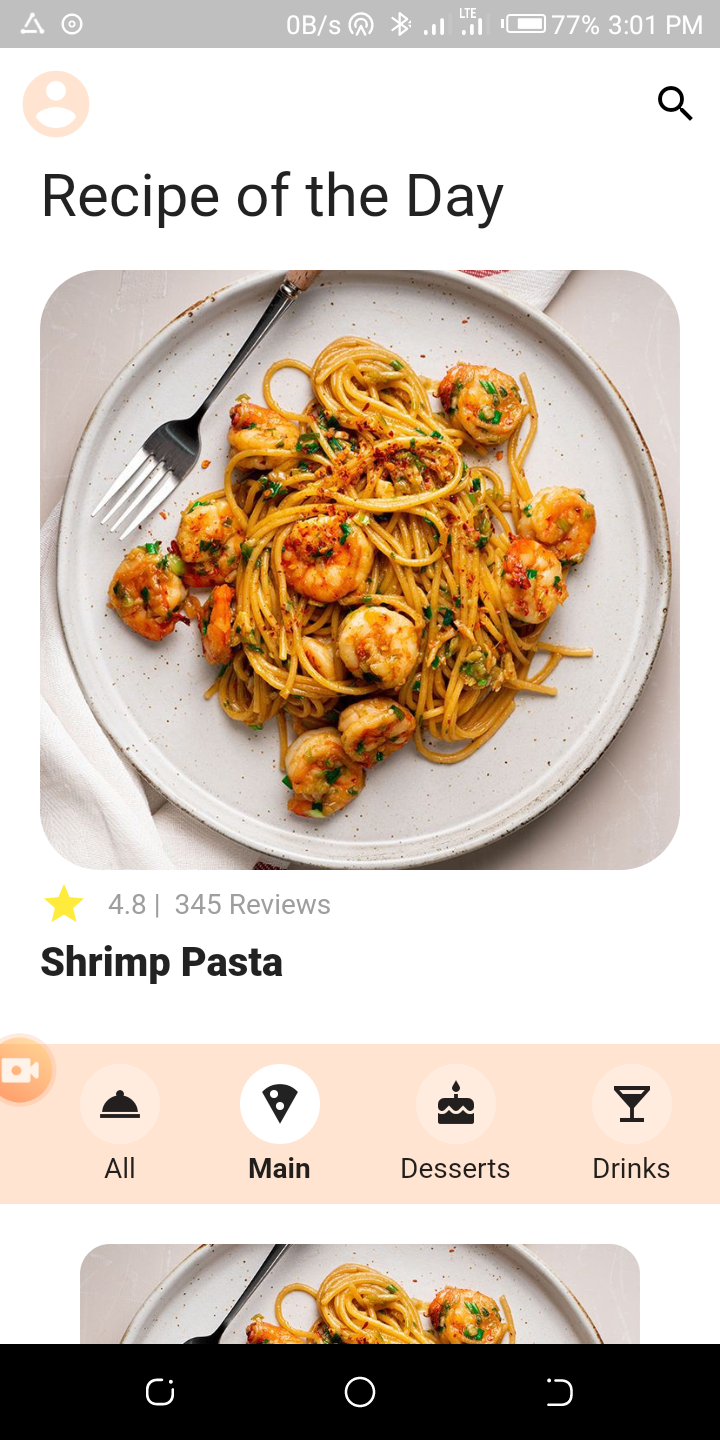
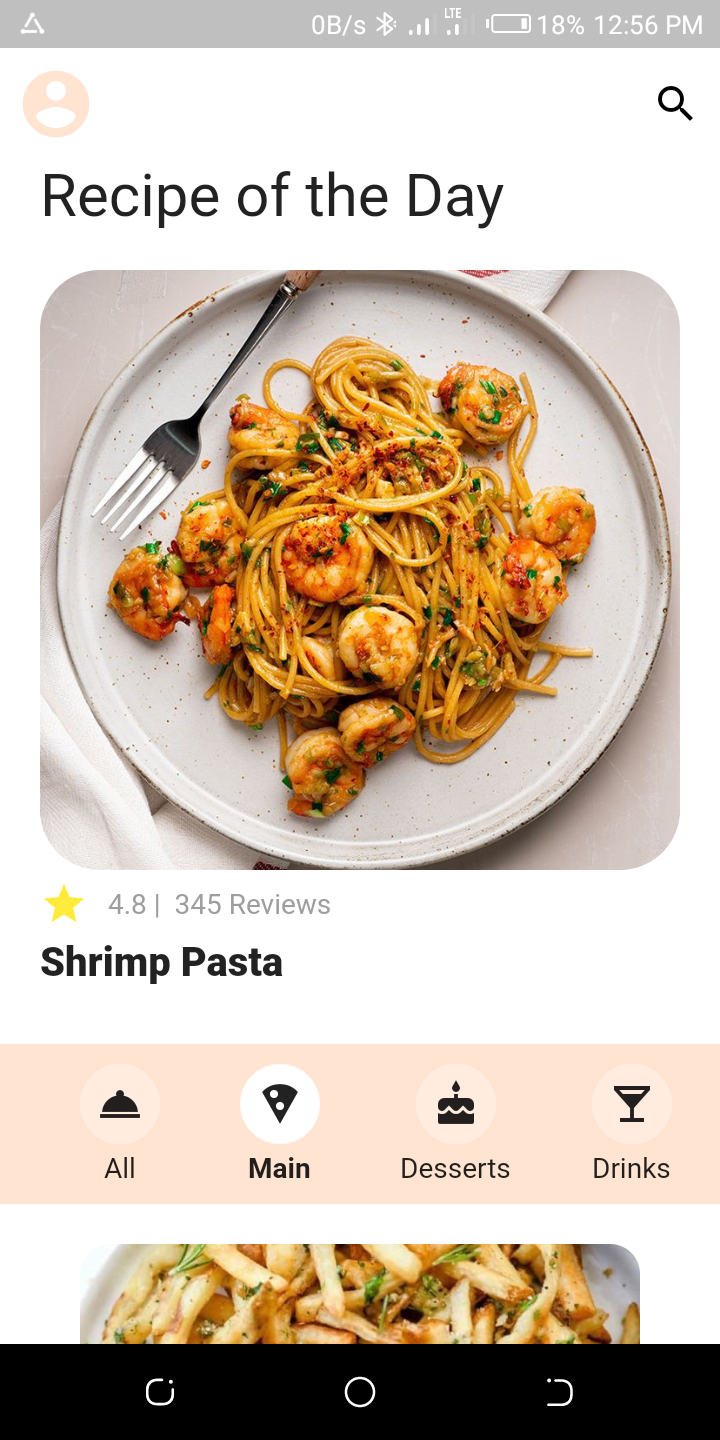
added pictures

diff --git a/lib/homepage.dart b/lib/homepage.dart
@@ -1,3 +1,5 @@
+import 'dart:math';
+
 import 'package:flutter/material.dart';
 import 'package:flutter_icons/flutter_icons.dart';
 import 'package:flutter_swiper/flutter_swiper.dart';
@@ -16,6 +18,7 @@ class _HomePageState extends State<HomePage> {
     'Drinks': Icon(MaterialIcons.local_bar)
   };
   List<String> options = ['df', 'ty', 'rt', 'tu','dk', 'py', 'lt', 'mu'];
+  List<String> images = ['assets/pic3.jpg','assets/pic4.jpg','assets/pic5.jpg','assets/pic6.jpg','assets/pic7.jpg','assets/pic8.jpg'];
   List<int> fav = [1,5,7,9];
   int _currentIndex = 0;
   String selected = 'Main';
@@ -101,6 +104,7 @@ class _HomePageState extends State<HomePage> {
               scrollDirection: Axis.horizontal,
               itemCount: 5,
               itemBuilder: (context, index){
+                int num = Random().nextInt(6);
                 return Column(
                   crossAxisAlignment: CrossAxisAlignment.center,
                   children: [
@@ -110,7 +114,7 @@ class _HomePageState extends State<HomePage> {
                       width: MediaQuery.of(context).size.width/3 + 15 ,
                       decoration: BoxDecoration(
                         image: DecorationImage(
-                          image: AssetImage('assets/pic1.jpg'), fit: BoxFit.cover,
+                          image: AssetImage(images[num]), fit: BoxFit.cover,
                         ),
                         borderRadius: BorderRadius.circular(15)
                       ),

diff --git a/lib/detailsPage.dart b/lib/detailsPage.dart
@@ -2,7 +2,7 @@ import 'package:flutter/material.dart';
 import 'package:flutter_icons/flutter_icons.dart';
 
 class DetailsPage extends StatelessWidget {
-  bool fav = true;
+  final bool fav = true;
   @override
   Widget build(BuildContext context) {
     return Scaffold(
@@ -10,6 +10,7 @@ class DetailsPage extends StatelessWidget {
         children: [
           Container(height: MediaQuery.of(context).size.height,),
           Container(
+            alignment: Alignment.center,
             height: MediaQuery.of(context).size.height/2,
             width: double.infinity,
             decoration: BoxDecoration(
@@ -17,6 +18,7 @@ class DetailsPage extends StatelessWidget {
                 image: AssetImage('assets/pic2.jpg'), fit: BoxFit.cover,
               ),
             ),
+            child: Icon(Icons.play_arrow, size: 50, color: Colors.white,)
           ),
           Positioned(
             top: MediaQuery.of(context).size.height/2 - 70,
@@ -98,7 +100,7 @@ class DetailsPage extends StatelessWidget {
   Widget steps(int number){
     return Container(
       padding: EdgeInsets.all(10),
-      child: Text('$number.  D/mali_winsys( 3857): EGLint new window surface (egl_winsys_display *, void *, EGLSurface, EGLConfig, egl winsys surface.'),
+      child: Text('$number.  The challenges in learning from data have led to a revolution in the statistical sciences.'),
     );
   }
 

diff --git a/lib/main.dart b/lib/main.dart
@@ -1,5 +1,4 @@
 import 'package:flutter/material.dart';
-import 'package:recipe/detailsPage.dart';
 import 'package:recipe/homepage.dart';
 
 void main() {
@@ -7,15 +6,12 @@ void main() {
 }
 
 class MyApp extends StatelessWidget {
-  // This widget is the root of your application.
   @override
   Widget build(BuildContext context) {
     return MaterialApp(
       title: 'Recipes',
       debugShowCheckedModeBanner: false,
-      home: 
-      // DetailsPage()
-      HomePage(),
+      home: HomePage(),
     );
   }
 }

diff --git a/lib/widget.dart b/lib/widget.dart
@@ -18,7 +18,7 @@ Widget recipes(List<String> options, _currentIndex, context, bool fav){
             width: double.infinity,
             decoration: BoxDecoration(
               image: DecorationImage(
-                image: AssetImage('assets/pic2.jpg'), fit: BoxFit.cover,
+                image: AssetImage(fav ?'assets/pic6.jpg': "assets/pic4.jpg"), fit: BoxFit.cover,
               ),
               borderRadius: BorderRadius.circular(15)
             ),

diff --git a/README.md b/README.md
@@ -3,17 +3,9 @@
 Recipe App UI
 
 # Screenshots
-<!-- ![Alt text](/Screenshots/1.png?raw=true)
-![Alt text](/Screenshots/2.png?raw=true)
-![Alt text](/Screenshots/3.png?raw=true)
-![Alt text](/Screenshots/4.png?raw=true) -->
 <div align="center">
     <img src="/Screenshots/1.png" width="400px"</img> 
-    </br>
     <img src="/Screenshots/2.png" width="400px"</img> 
-    </br>
-    <img src="/Screenshots/3.png" width="400px"</img> 
-    </br>
-    <img src="/Screenshots/4.png" width="400px"</img> 
-    </br>
 </div>
+
+![Recipe App Demo](demo/demo.gif)
